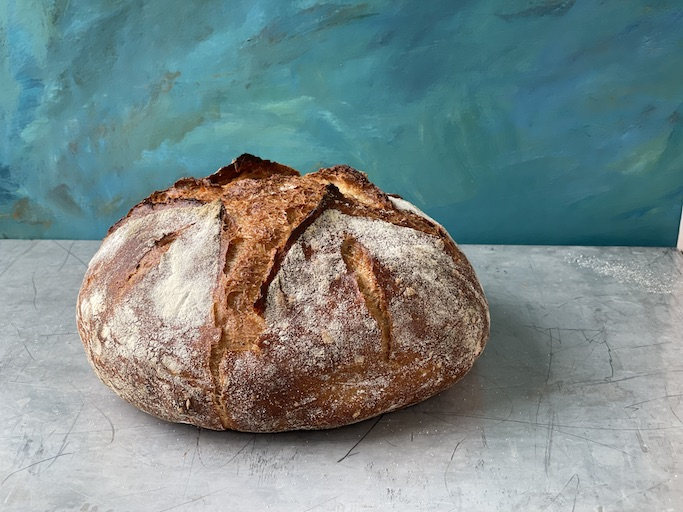
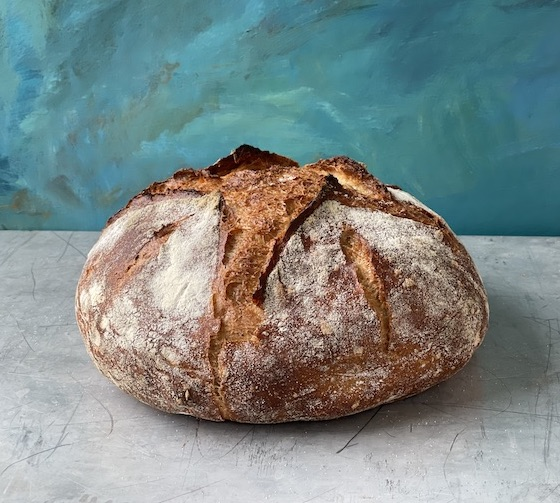
Crop thumbnails to dynamic squares; regularize input box height

diff --git a/index.html b/index.html
@@ -202,7 +202,7 @@
                 <tr>
                     <td>
                         <span class="image">
-                            <img class="thumbnail" src="${breadData.image}" alt="" style="max-width:150px;width:100%"/>
+                            <img class="thumbnail" src="${breadData.image}" alt="" style="max-width:170px;"/>
                         </span>
                     </td>
                     <td>
@@ -334,13 +334,14 @@
             document.getElementById("customer-email").value = "";
             document.getElementById("payment-method").value = "";
             document.getElementById("pickup-time").value = "";
+            //document.getElementById("read-instructions").prop('checked', false);
 
             //Reload available items
             updateBreadLedger().then(async () => await init());
         }
             //Reject order if cart items are no longer available
             //Clear the cart and reload ledger items but leave form intact
-        //Do not log order to ledger!
+            //Do not log order to ledger!
         else {
             document.getElementById("form-submit-message").innerHTML = "<strong>Some items in your cart are no longer available.</strong><br> Please re-select items and place your order again.";
             document.getElementById("selected-items-count").innerHTML = "";

diff --git a/assets/css/main.css b/assets/css/main.css
@@ -130,38 +130,23 @@ body, input, select, textarea {
 
 @media screen and (max-width: 1680px) {
 
-    body, input, textarea {
+    body, input, textarea, select {
         font-size: 16pt;
     }
-
-    select {
-        font-size: 18pt;
-    }
-
 }
 
 @media screen and (max-width: 1280px) {
 
-    body, input, textarea {
+    body, input, textarea, select {
         font-size: 14pt;
     }
-
-    select {
-        font-size: 16pt;
-    }
-
 }
 
 @media screen and (max-width: 780px) {
 
-    body, input, textarea {
+    body, input, textare, select {
         font-size: 12pt;
     }
-
-    select {
-        font-size: 14pt;
-    }
-
 }
 
 a {
@@ -2011,7 +1996,7 @@ textarea {
     color: inherit;
     display: block;
     outline: 0;
-    padding: 0 1em;
+    padding: 0 0.8em;
     text-decoration: none;
     width: 100%;
 }
@@ -2050,7 +2035,7 @@ input[type="text"],
 input[type="password"],
 input[type="email"],
 select {
-    height: 2.75em;
+    height: 2.3em;
 }
 
 textarea {
@@ -2377,7 +2362,10 @@ input[type="radio"]:focus + label:before {
 }
 
 .image img.thumbnail {
-    max-width: 100%;
+    height:100%;
+    width:100%;
+    object-fit:cover;
+    aspect-ratio: 1/1;
 }
 
 .image.left, .image.right {
